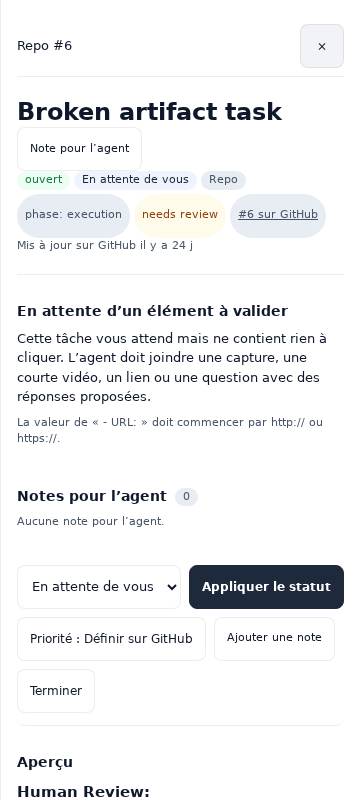
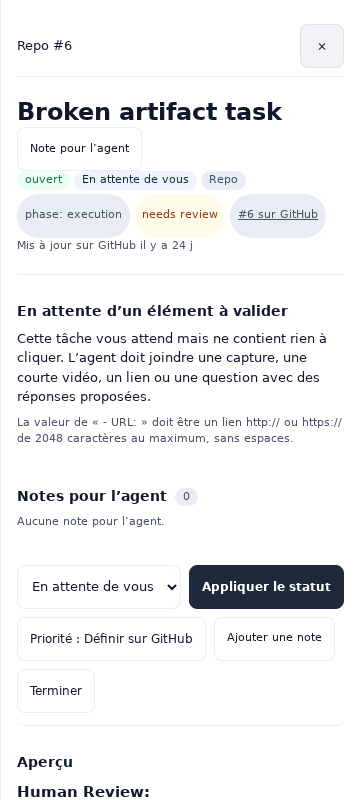
test(v4-3): record the refreshed probe run

Changed region(s): [[0.4278, 0.5, 0.9167, 0.5625], [0.0611, 0.5312, 0.3361, 0.5625], [0.3667, 0.5312, 0.3972, 0.5625]]

diff --git a/.agents/run/chamberos-board-v2/verifications/V4-3/README.md b/.agents/run/chamberos-board-v2/verifications/V4-3/README.md
@@ -234,3 +234,62 @@ Sequential, on the fixed tree (`7d8e354` plus the attack scripts):
 
 Real GitHub, production, Safari, Firefox, physical phone, screen reader.
 
+## Delta residuals closed (2026-11-13)
+
+The two Low residuals in `../V4-3-L4-delta/README.md` are closed. Documentation, prompt strings and
+probe expectations only; no application behaviour changed.
+
+### 1. Preset-answer rule scoped to the human review gate (`fa15e35`)
+
+`docs/issue-body-contract.md` §2.5 no longer says presets are "never a required choice". Its heading
+is now "Preset answer options (optional, except at a human review gate)" and its reconciliation
+paragraph reads: presets are optional for an ordinary question; a question that gates the task for
+human review (§2.9) must offer at least one, because a gate is settled by clicking. §2.9 is
+unchanged. `DEFAULT_AI_ISSUE_PROMPT`'s Open Questions bullet in `panel/core.ts` and the shipped
+`panel/main.js` carry the same scope in the same words, so the two sections and the two prompt
+copies agree.
+
+Documentation lock, re-run after the edit:
+
+- `node --test web/tests/issue-body-contract.test.mjs web/tests/v4-3-human-review.test.mjs web/tests/v4-3-client.test.mjs` — 43 tests, 43 pass, 0 fail, exit 0, including `V4-3 prompts document the human gate identically in core.ts and shipped main.js` and `V4-3 contract lock is non-destructive: the document stays byte-identical`.
+- `node --test test/ai-prompt.test.js test/drafting-and-skills-audit.test.js test/issue-30-work-type.test.js` — 21 tests, 21 pass, 0 fail, exit 0.
+- `npx tsc --noEmit` — exit 0.
+
+### 2. Stale URL message expectations refreshed (`20f4553`)
+
+`scripts/browser.mjs` now expects the F4 message the card actually renders, EN and FR:
+`The "- URL:" value must be an http:// or https:// link of at most 2048 characters, with no spaces.`
+and `La valeur de « - URL: » doit être un lien http:// ou https:// de 2048 caractères au maximum, sans espaces.`
+Nothing else in the probe changed. The assertion is still
+`body.innerText.includes(<the whole sentence>)`, so a message that loses the 2048 limit or the
+no-space rule still fails. Two negative controls on the shipped client confirm it: the probe was
+run from a copy outside this tree (`/tmp/opencode/v4-3-mut/scripts/browser.mjs`, identical except
+for absolute test import paths) while `web/public/app.js` was mutated and then restored
[1 lines of base64/hex data omitted]
+and after).
+
+| Mutation of the EN message | Result |
+|---|---|
+| drop "at most 2048 characters" | 6 failed rows, all `malformed-*-en:reasonShown`, exit 1 (`logs/mutation-en-no-2048.log`, `.exit`) |
+| drop "with no spaces" | 6 failed rows, all `malformed-*-en:reasonShown`, exit 1 (`logs/mutation-en-no-no-spaces.log`, `.exit`) |
+
+Re-run on the committed probe: `pass: true`, 84 rows, 84 screenshots (plus 12 `-answer` shots for
+the question gate), 1248 recorded assertions, 0 failed, 0 page errors, 0 console errors, 0 CSP
+violations, exit 0. Raw log `logs/browser.log`, exit `logs/browser.exit`, report `browser.json`,
+images `screenshots/`. Implementation under test `0da2997` (`web/server/board.ts`), probe head
+`20f4553`, Chromium 156.0.8078.4, synthetic only.
+
+`browser.json` changed only in `generatedAt`, `probeHead`, `commit` (was `854522c`, now `0da2997`)
+and, in the 12 malformed rows, the `reasonShown` expected/actual pair and the measured card
+`text`; no other state's measurement moved. The 12 malformed screenshots now show the F4 sentence;
+13 other PNGs differ in bytes only, with identical measurements. The "Browser evidence" section
+above is the earlier run at `cd97f8e` and still quotes the pre-F4 sentence; this run supersedes it.
+
+### Still open, known
+
+F5 (the Operations view and `panel/labels.ts` still read "Needs human" / "In review", and the panel
+renders no gate); a live preset-less question gate (a typed answer settles it, then the status
+control must move the task); the saved `ai_issue_prompt` override (a stored prompt keeps the old
+wording); the third-party image host (`img-src https:` lets it see the reader's IP); and the URL
+refusal causes the message still does not name — no host, a double quote, a backslash.
+
